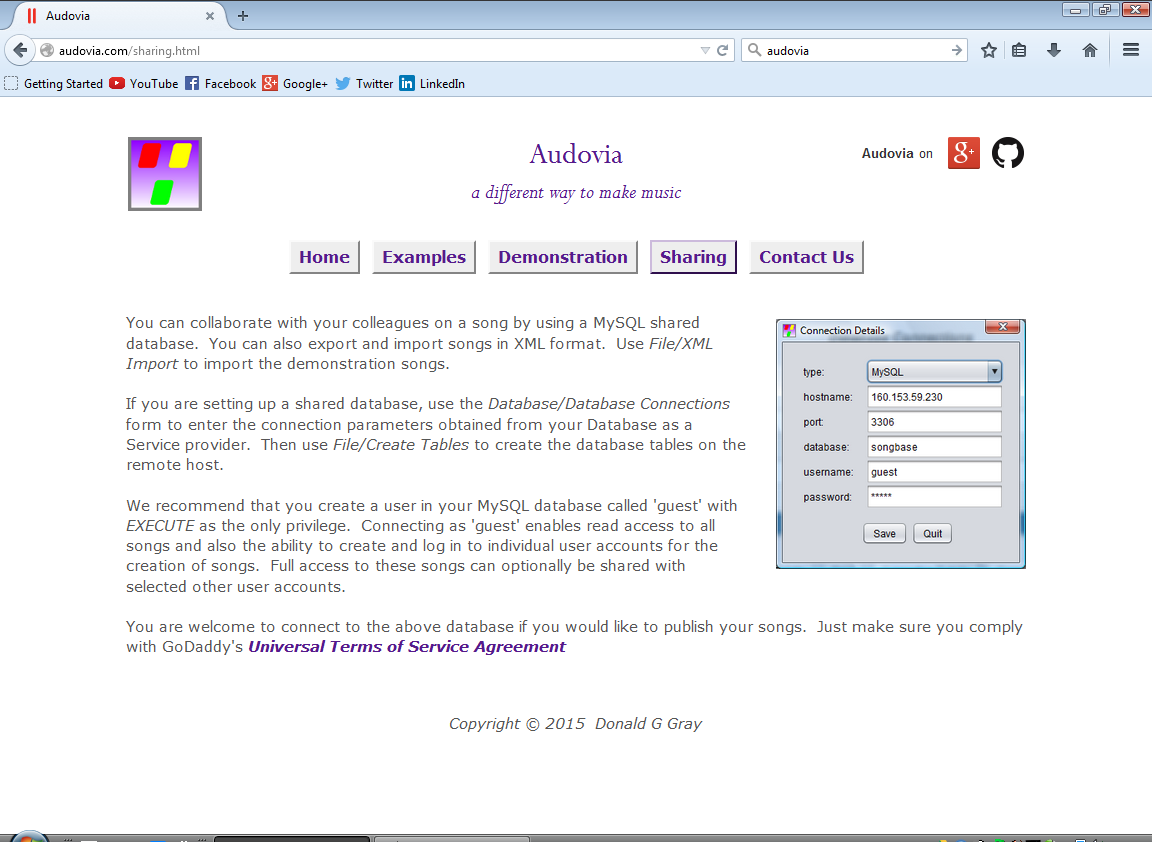
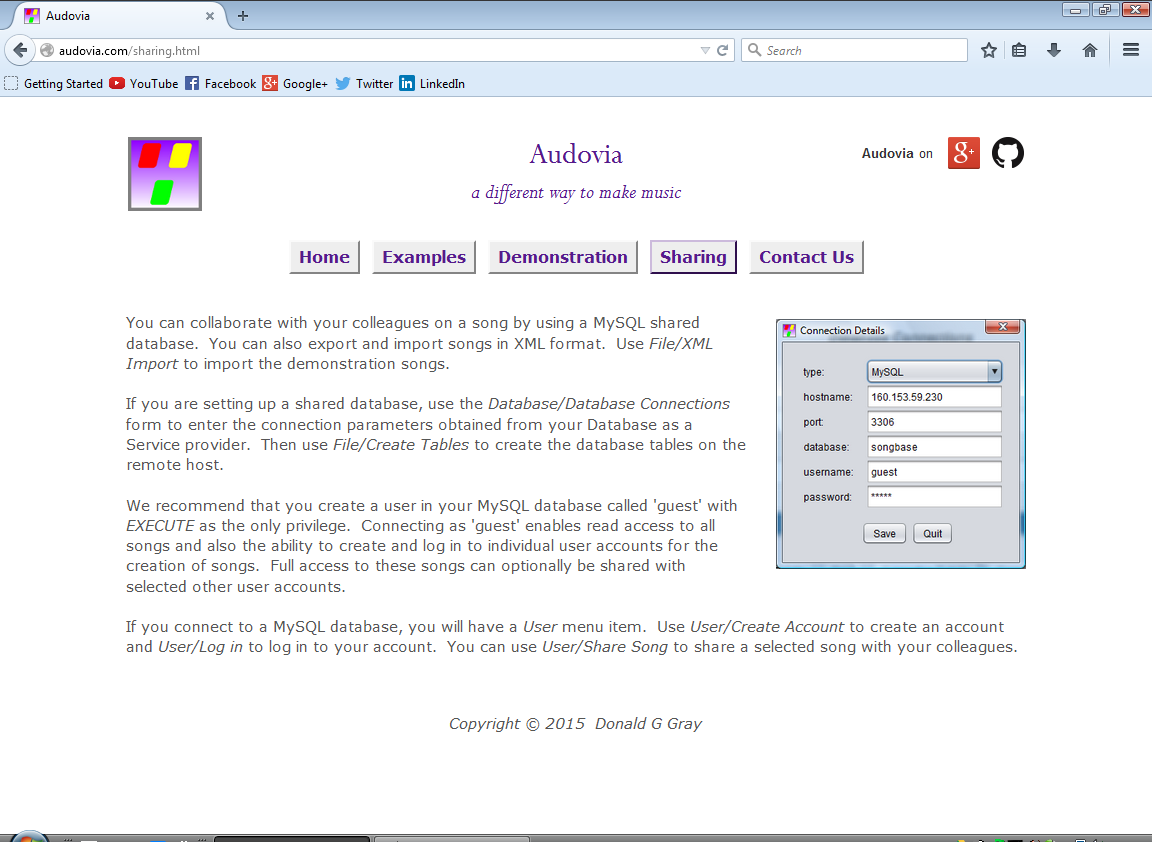
update website

Changed region(s): [[0.0938, 0.7411, 0.9062, 0.772], [0.875, 0.9881, 0.9062, 1.0], [0.0, 0.0, 0.0312, 0.0309]]

diff --git a/sharing.html b/sharing.html
@@ -8,7 +8,8 @@
     <meta content="Audovia is an Open Source software application for
       making music with up to 15 instrumental voices and a percussion
       track." name="description">
-    <meta property="og:image" content="image/AudoviaSharing.png">
+    <meta property="og:image"
+      content="http://audovia.com/image/AudoviaSharing.png">
     <!--
    <script type="text/javascript">
       (function(i,s,o,g,r,a,m){i['GoogleAnalyticsObject']=r;i[r]=i[r]||function(){
@@ -171,9 +172,13 @@ href="https://plus.google.com/u/0/communities/115182680696167827789?prsrc=3"
 
 
 
+
+
                         font:13px/16px
                         arial,sans-serif;white-space:nowrap;"> <span
                           style="display:inline-block;font-weight:bold;vertical-align:top;margin-right:5px;
+
+
 
 
 
@@ -336,6 +341,8 @@ href="https://plus.google.com/u/0/communities/115182680696167827789?prsrc=3"
 
 
 
+
+
                       <a href="https://github.com/SongBase/Audovia"
                         target="_blank"><img
                           src="image/GitHub-Mark-32px.png" alt="GitHub"
@@ -367,10 +374,14 @@ href="https://plus.google.com/u/0/communities/115182680696167827789?prsrc=3"
 
 
 
+
+
             <a href="examples.html" style="text-decoration:none;"><button
                 type="button" style="background-color:#eeeeee;
                 padding:5px; cursor:pointer"><font color="#551A8B"
                   face="Verdana"><big><b>Examples</b></big></font></button></a>&nbsp;&nbsp;
+
+
 
 
 
@@ -399,6 +410,8 @@ href="https://plus.google.com/u/0/communities/115182680696167827789?prsrc=3"
 
 
 
+
+
             <a href="sharing.html" style="text-decoration:none;"><button
                 type="button" style="background-color:#eeeeee;
                 border-color: #551A8B; padding:5px; cursor:pointer"><font
@@ -415,10 +428,14 @@ href="https://plus.google.com/u/0/communities/115182680696167827789?prsrc=3"
 
 
 
+
+
             <a href="mailto:info@gray10.com"
               style="text-decoration:none;"><button type="button"
                 style="background-color:#eeeeee; padding:5px;
                 cursor:pointer"><font color="#551A8B" face="Verdana"><big><b>Contact
+
+
 
 
 
@@ -607,6 +624,8 @@ myAudioitem.pause();
 
 
 
+
+
                             Connections</span> form to enter the
                           connection parameters obtained from your
                           Database as a Service provider.&nbsp; Then use
@@ -640,9 +659,7 @@ myAudioitem.pause();
                               style="font-style: italic;"> Song</span>
                             to share a selected song with your
                             colleagues.&nbsp;<span style="font-weight:
-                              bold;"><span style="font-style: italic;"><a
-href="https://uk.godaddy.com/legal-agreements.aspx?ci=&amp;otab=2"
-                                  class="nounderline" target="_blank"></a></span></span>
+                              bold;"><span style="font-style: italic;"></span></span>
                           </span></div>
                       </div>
                     </blockquote>

diff --git a/index.html b/index.html
@@ -8,7 +8,8 @@
     <meta content="Audovia is an Open Source software application for
       making music with up to 15 instrumental voices and a percussion
       track." name="description">
-    <meta property="og:image" content="image/AudoviaHome.png">
+    <meta property="og:image"
+      content="http://audovia.com/image/AudoviaHome.png">
     <style type="text/css">
 
       body {background-color: #FFFFFF; color: #000000;}
@@ -100,9 +101,13 @@ href="https://plus.google.com/u/0/communities/115182680696167827789?prsrc=3"
 
 
 
+
+
                         font:13px/16px
                         arial,sans-serif;white-space:nowrap;"> <span
                           style="display:inline-block;font-weight:bold;vertical-align:top;margin-right:5px;
+
+
 
 
 
@@ -128,6 +133,8 @@ href="https://plus.google.com/u/0/communities/115182680696167827789?prsrc=3"
                           src="http://ssl.gstatic.com/images/icons/gplus-32.png"
                           alt="Google+"
                           style="border:0;width:32px;height:32px;"></a>&nbsp;&nbsp;
+
+
 
 
 
@@ -186,10 +193,14 @@ href="https://plus.google.com/u/0/communities/115182680696167827789?prsrc=3"
 
 
 
+
+
             <a href="examples.html" style="text-decoration:none;"><button
                 type="button" style="background-color:#eeeeee;
                 padding:5px; cursor:pointer"><font color="#551A8B"
                   face="Verdana"><big><b>Examples</b></big></font></button></a>&nbsp;&nbsp;
+
+
 
 
 
@@ -232,10 +243,14 @@ href="https://plus.google.com/u/0/communities/115182680696167827789?prsrc=3"
 
 
 
+
+
             <a href="sharing.html" style="text-decoration:none;"><button
                 type="button" style="background-color:#eeeeee;
                 padding:5px; cursor:pointer"><font color="#551A8B"
                   face="Verdana"><big><b>Sharing</b></big></font></button></a>&nbsp;&nbsp;
+
+
 
 
 
@@ -278,6 +293,8 @@ href="https://plus.google.com/u/0/communities/115182680696167827789?prsrc=3"
 
 
 
+
+
                       Us</b></big></font></button></a> </td>
         </tr>
         <tr>
@@ -290,6 +307,8 @@ href="https://plus.google.com/u/0/communities/115182680696167827789?prsrc=3"
                     <blockquote><span class="body"><strong></strong>Make
                         music on your laptop or PC with <span
                           style="font-weight: bold;">Audovia</span>.&nbsp;
+
+
 
 
 
@@ -410,6 +429,8 @@ href="https://bintray.com/artifact/download/songbuilder/generic/audovia_3.0.8_am
                               href="http://java.com/"
                               class="nounderline" target="_blank"><em><strong>Java.com</strong></em></a>
                             or, if you are using Linux Ubuntu,<strong> </strong>you
+
+
 
 
 

diff --git a/demonstration.html b/demonstration.html
@@ -8,7 +8,8 @@
     <meta content="Audovia is an Open Source software application for
       making music with up to 15 instrumental voices and a percussion
       track." name="description">
-    <meta property="og:image" content="image/AudoviaDemonstration.png">
+    <meta property="og:image"
+      content="http://audovia.com/image/AudoviaDemonstration.png">
     <!--    
 <script type="text/javascript">
       (function(i,s,o,g,r,a,m){i['GoogleAnalyticsObject']=r;i[r]=i[r]||function(){
@@ -183,9 +184,13 @@ href="https://plus.google.com/u/0/communities/115182680696167827789?prsrc=3"
 
 
 
+
+
                         font:13px/16px
                         arial,sans-serif;white-space:nowrap;"> <span
                           style="display:inline-block;font-weight:bold;vertical-align:top;margin-right:5px;
+
+
 
 
 
@@ -374,6 +379,8 @@ href="https://plus.google.com/u/0/communities/115182680696167827789?prsrc=3"
 
 
 
+
+
                       <a href="https://github.com/SongBase/Audovia"
                         target="_blank"><img
                           src="image/GitHub-Mark-32px.png" alt="GitHub"
@@ -408,6 +415,8 @@ href="https://plus.google.com/u/0/communities/115182680696167827789?prsrc=3"
 
 
 
+
+
             <a href="examples.html" style="text-decoration:none;"><button
                 type="button" style="background-color:#eeeeee;
                 padding:5px; cursor:pointer"><font color="#551A8B"
@@ -427,10 +436,14 @@ href="https://plus.google.com/u/0/communities/115182680696167827789?prsrc=3"
 
 
 
+
+
             <a href="demonstration.html" style="text-decoration:none;"><button
                 type="button" style="background-color:#eeeeee;
                 border-color: #551A8B; padding:5px; cursor:pointer"><font
                   color="#551A8B" face="Verdana"><big><b>Demonstration</b></big></font></button></a>&nbsp;&nbsp;
+
+
 
 
 
@@ -466,10 +479,14 @@ href="https://plus.google.com/u/0/communities/115182680696167827789?prsrc=3"
 
 
 
+
+
             <a href="mailto:info@gray10.com"
               style="text-decoration:none;"><button type="button"
                 style="background-color:#eeeeee; padding:5px;
                 cursor:pointer"><font color="#551A8B" face="Verdana"><big><b>Contact
+
+
 
 
 
@@ -582,6 +599,8 @@ src="https://player.vimeo.com/video/132335980?title=0&amp;byline=0&amp;portrait=
                           to create a song, then <em>File/Tree View</em>
                           and expand the nodes.&nbsp; Select each bar in
                           turn and enter the notes<strong><em></em></strong>.&nbsp;
+
+
 
 
 

diff --git a/examples.html b/examples.html
@@ -8,7 +8,8 @@
     <meta content="Audovia is an Open Source software application for
       making music with up to 15 instrumental voices and a percussion
       track." name="description">
-    <meta property="og:image" content="image/AudoviaExamples.png">
+    <meta property="og:image"
+      content="http://audovia.com/image/AudoviaExamples.png">
     <!--
     <script type="text/javascript">
       (function(i,s,o,g,r,a,m){i['GoogleAnalyticsObject']=r;i[r]=i[r]||function(){
@@ -167,9 +168,13 @@ href="https://plus.google.com/u/0/communities/115182680696167827789?prsrc=3"
 
 
 
+
+
                         font:13px/16px
                         arial,sans-serif;white-space:nowrap;"> <span
                           style="display:inline-block;font-weight:bold;vertical-align:top;margin-right:5px;
+
+
 
 
 
@@ -326,6 +331,8 @@ href="https://plus.google.com/u/0/communities/115182680696167827789?prsrc=3"
 
 
 
+
+
                       <a href="https://github.com/SongBase/Audovia"
                         target="_blank"><img
                           src="image/GitHub-Mark-32px.png" alt="GitHub"
@@ -355,10 +362,14 @@ href="https://plus.google.com/u/0/communities/115182680696167827789?prsrc=3"
 
 
 
+
+
             <a href="examples.html" style="text-decoration:none;"><button
                 type="button" style="background-color:#eeeeee;
                 border-color: #551A8B; padding:5px; cursor:pointer"><font
                   color="#551A8B" face="Verdana"><big><b>Examples</b></big></font></button></a>&nbsp;&nbsp;
+
+
 
 
 
@@ -383,6 +394,8 @@ href="https://plus.google.com/u/0/communities/115182680696167827789?prsrc=3"
 
 
 
+
+
             <a href="sharing.html" style="text-decoration:none;"><button
                 type="button" style="background-color:#eeeeee;
                 padding:5px; cursor:pointer"><font color="#551A8B"
@@ -397,10 +410,14 @@ href="https://plus.google.com/u/0/communities/115182680696167827789?prsrc=3"
 
 
 
+
+
             <a href="mailto:info@gray10.com"
               style="text-decoration:none;"><button type="button"
                 style="background-color:#eeeeee; padding:5px;
                 cursor:pointer"><font color="#551A8B" face="Verdana"><big><b>Contact
+
+
 
 
 
